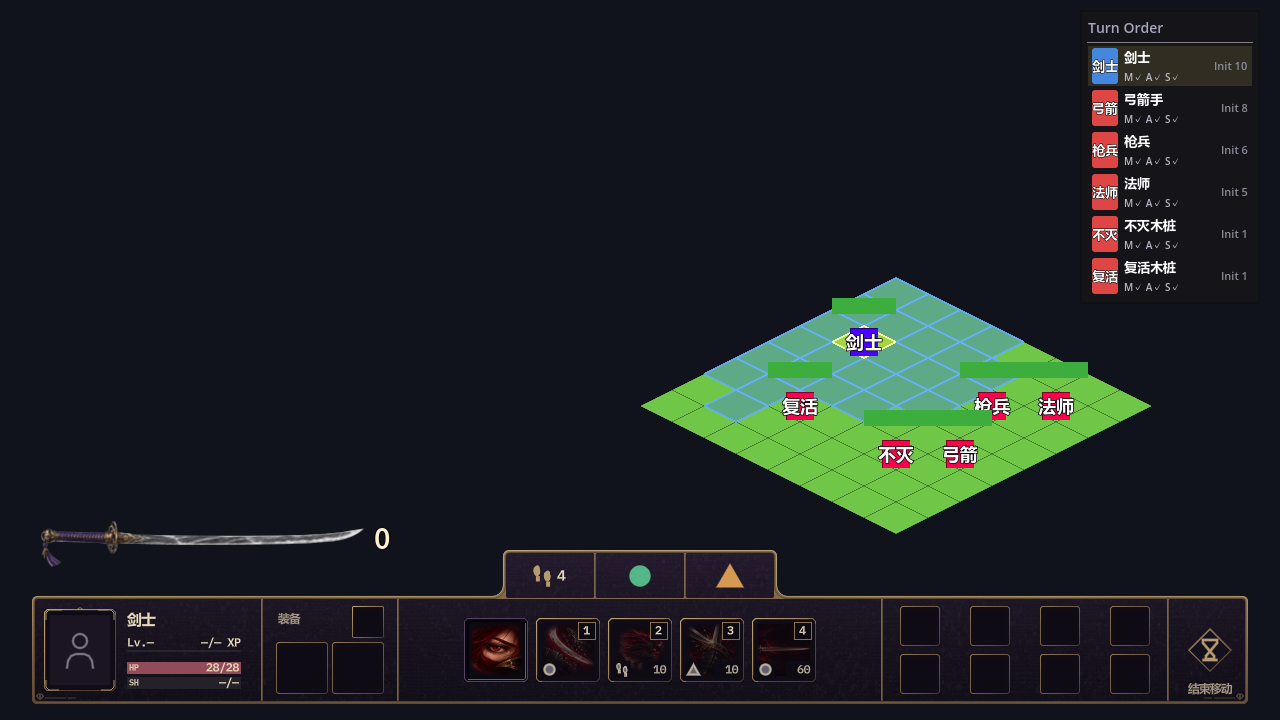
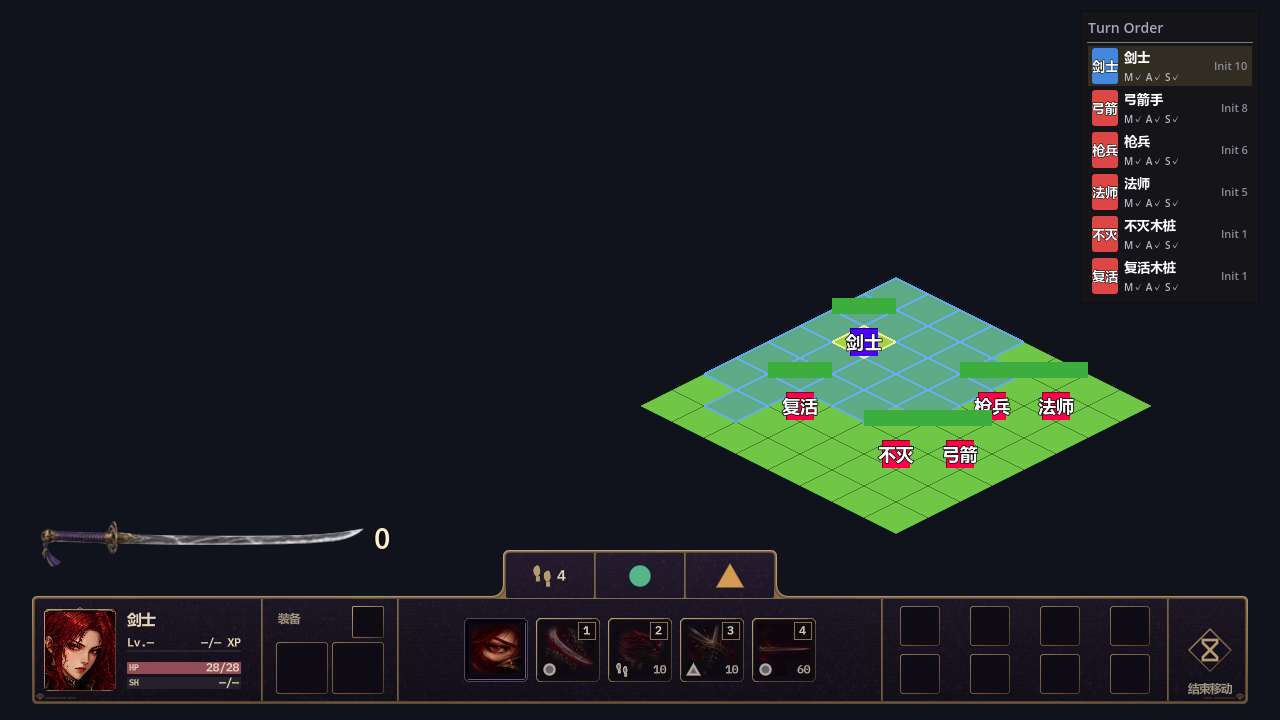
Update approved Myrmidon Windows HUD release evidence

Changed region(s): [[0.0312, 0.825, 0.0938, 0.9778], [0.9375, 0.8861, 0.9688, 0.9167]]

diff --git a/dev_doc/ui-art-research/hud-release-build/README.md b/dev_doc/ui-art-research/hud-release-build/README.md
@@ -2,17 +2,17 @@
 
 ## 基础剑士版
 
[2 lines of base64/hex data omitted]
 
 构建只在发行副本中把测试战斗的玩家设为基础剑士，仓库默认战斗场景不变。发行副本的专项检查确认：基础剑士剑气上限为 100，印记容量为 0，印记面板隐藏，技能说明不描述印记，五个技能栏图标指向 `assets/ui/skills/myrmidon/`。共享技能命中也无法给基础剑士添加印记。从 ZIP 解压后启动程序，实际进入剑士回合，运行 120 帧后以退出码 0 结束。详见[构建结果](evidence/myrmidon-build-result.json)与[包内图标检查](evidence/myrmidon-icon-audit.json)。
 
[2 lines of base64/hex data omitted]
 
 发行 ZIP 包含 `ShipOfTheseus.exe`、`ShipOfTheseus.pck` 和 Godot、IBM Plex Mono、Source Sans Pro 的许可说明。导出的资源包不包含 Godot MCP、开发文档和测试文件。ZIP 留在仓库外的本机输出目录，不提交到游戏仓。
 
 ## 剑圣版
 
[2 lines of base64/hex data omitted]
 
 ## 重建基础剑士版
 
@@ -31,4 +31,4 @@
 
 ## 当前边界
 
-项目主场景仍是 `TacticalScene` 测试战斗，因此这些包用于基础战斗 HUD 的体验与验收，不代表完整游戏内容。基础剑士的人物栏目前使用通用占位头像，剑圣人物栏另有正式头像。此处未进行异机兼容性或代码签名验收。
+项目主场景仍是 `TacticalScene` 测试战斗，因此这些包用于基础战斗 HUD 的体验与验收，不代表完整游戏内容。基础剑士与剑圣都已有各自的人物栏头像；剑圣旧包仍是当时的画面。此处未进行异机兼容性或代码签名验收。
